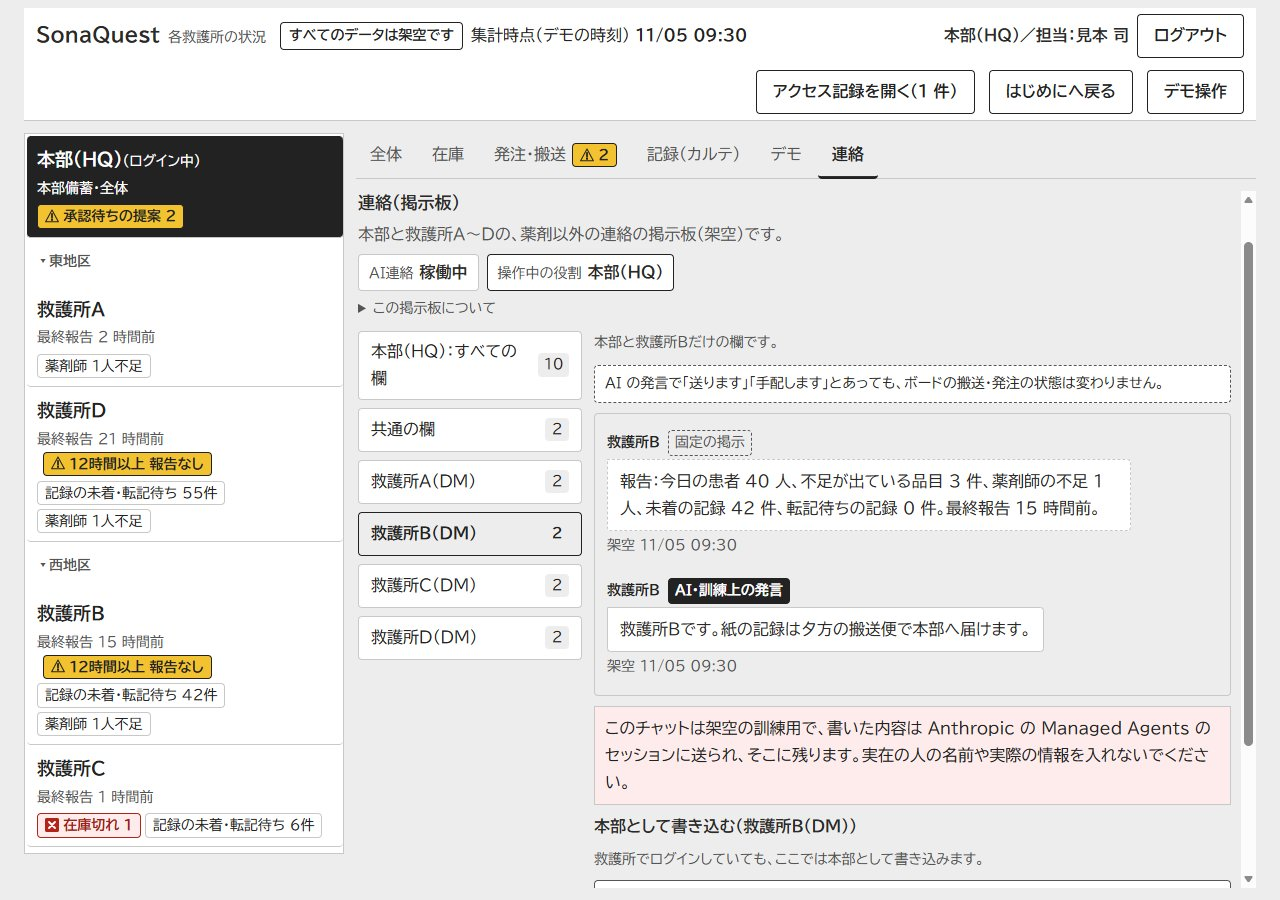
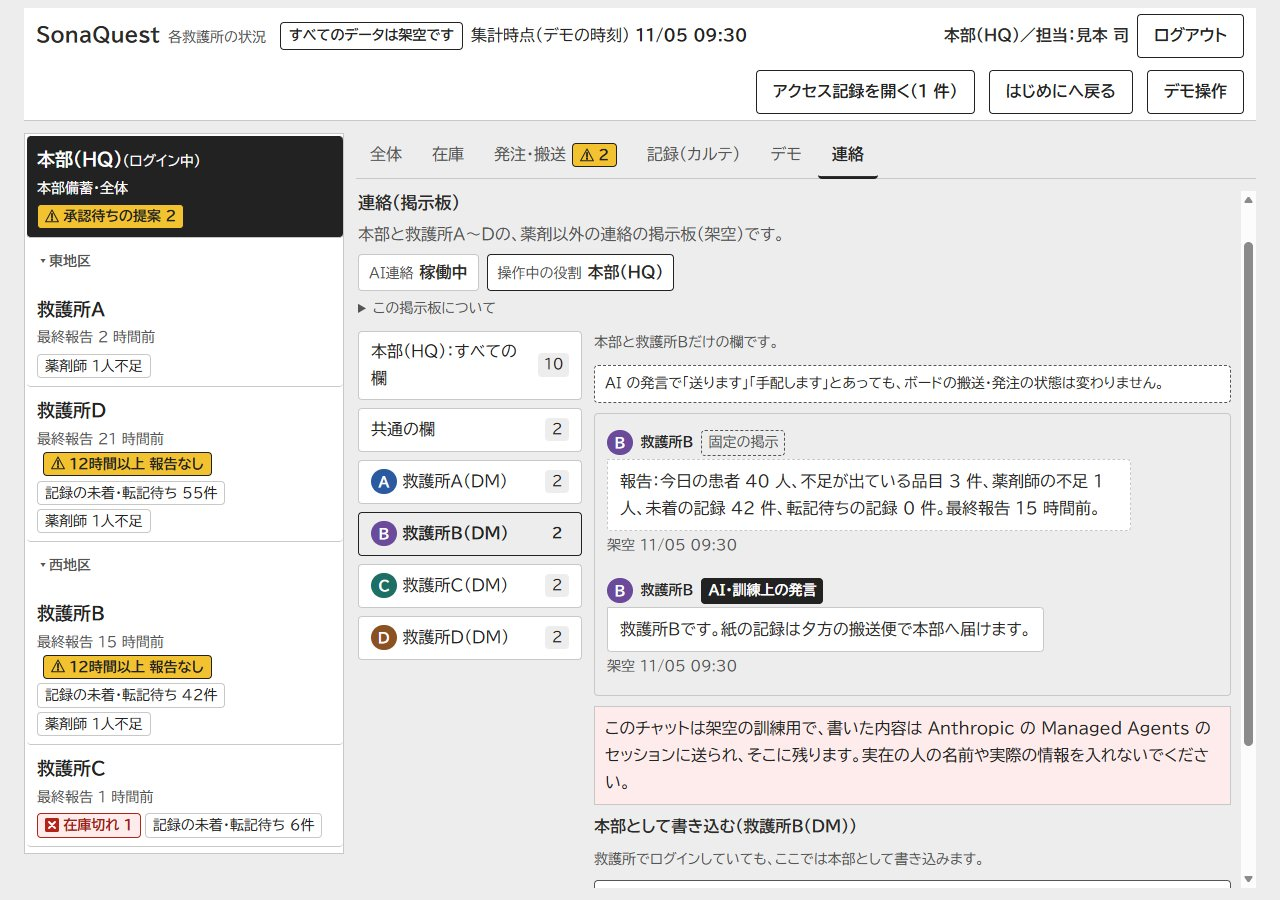
掲示板チャットの書き込みと欄に役の丸い印（A〜D・本）を付け、救護所ごとに色を分ける（Issue #161）

Changed region(s): [[0.2812, 0.4978, 0.4062, 0.7156], [0.4688, 0.6222, 0.6562, 0.6844], [0.4688, 0.4667, 0.625, 0.5289]]

diff --git a/web/src/board/chat/BoardChat.tsx b/web/src/board/chat/BoardChat.tsx
@@ -5,7 +5,7 @@
 
 import { useEffect, useLayoutEffect, useRef, useState, useSyncExternalStore, type FormEvent } from "react";
 import type { DemoState } from "../demo";
-import { MAX_HUMAN_TEXT_LENGTH, type ChatChannel } from "./contract";
+import { MAX_HUMAN_TEXT_LENGTH, type ChatChannel, type ChatRole } from "./contract";
 import {
   AUTO_INTERVAL_MS,
   boardChatController,
@@ -16,7 +16,7 @@ import {
   type ChatViewMemory,
 } from "./controller";
 import { chatStatus } from "./status";
-import { CHAT_BUBBLE_TEXT, CHAT_ROLE_NAMES, CHAT_SEND_NOTICE, CHAT_TEXT, CHAT_VIEWS, type ChatView } from "./text";
+import { CHAT_BUBBLE_TEXT, CHAT_ROLE_MARKS, CHAT_ROLE_NAMES, CHAT_SEND_NOTICE, CHAT_TEXT, CHAT_VIEWS, type ChatView } from "./text";
 import "./chat.css";
 
 interface Props {
@@ -43,6 +43,18 @@ function badgeOf(post: ChatPost): string {
   return post.by === "agent" ? CHAT_BUBBLE_TEXT.aiBadge : CHAT_TEXT.badges[post.by];
 }
 
+/**
+ * 役の丸い印（●の中に A〜D、本部は「本」）。救護所ごとに色を分ける（2026-11-06 オーナー、チャット）。
+ * 色だけに頼らず文字を入れ、名前も横に書くので、読み上げでは印を読まない
+ */
+function RoleMark({ role }: { role: ChatRole }) {
+  return (
+    <span className={`board-chat-mark role-${role}`} aria-hidden="true" data-role={role}>
+      {CHAT_ROLE_MARKS[role]}
+    </span>
+  );
+}
+
 function Post({ post, showChannel }: { post: ChatPost; showChannel: boolean }) {
   // 本部（人・エージェント・固定の掲示）は右、救護所は左
   const side = post.role === "HQ" ? "hq" : "site";
@@ -50,6 +62,7 @@ function Post({ post, showChannel }: { post: ChatPost; showChannel: boolean }) {
   return (
     <li className={`board-chat-post ${post.by} side-${side}${mine ? " mine" : ""}`} data-by={post.by} data-side={side}>
       <div className="board-chat-meta">
+        <RoleMark role={post.role} />
         <span className="board-chat-name">{CHAT_ROLE_NAMES[post.role]}</span>
         <span className={`board-chat-badge ${post.by}`}>{badgeOf(post)}</span>
         {showChannel && <span className="board-chat-channel">{CHAT_TEXT.views[post.channel]}</span>}
@@ -185,7 +198,10 @@ export function BoardChat({ state, controller = boardChatController, memory = bo
               data-view={v}
               onClick={() => setView(v)}
             >
-              <span>{CHAT_TEXT.views[v]}</span>
+              <span className="board-chat-view-name">
+                {v !== "all" && v !== "common" && <RoleMark role={v} />}
+                {CHAT_TEXT.views[v]}
+              </span>
               <span className="board-chat-count">{counts(v)}</span>
             </button>
           ))}

diff --git a/web/src/board/chat/text.ts b/web/src/board/chat/text.ts
@@ -11,6 +11,9 @@ export const CHAT_ROLE_NAMES: Readonly<Record<ChatRole, string>> = {
   D: "救護所D",
 };
 
+/** 吹き出しと欄のボタンに付ける丸い印の文字（Issue #161。2026-11-06 オーナー、チャット：「●の中にAとかにしてもいいかもね。色分けしてさ」） */
+export const CHAT_ROLE_MARKS: Readonly<Record<ChatRole, string>> = { HQ: "本", A: "A", B: "B", C: "C", D: "D" };
+
 /** 左の欄の並び。all は本部が見るすべての欄（読むだけ） */
 export type ChatView = "all" | ChatChannel;
 export const CHAT_VIEWS: readonly ChatView[] = ["all", "common", "A", "B", "C", "D"];
@@ -85,7 +88,7 @@ export const CHAT_BUBBLE_TEXT = {
   operatingRole: "本部（HQ）",
   operatingRoleNote: "救護所でログインしていても、ここでは本部として書き込みます。",
   aiBadge: "AI・訓練上の発言",
-  boardUnchanged: "AI の発言で「送ります」「手配します」とあっても、ボードの搬送・発注の状態は変わりません。",
+  boardUnchanged:"AI の発言で「送ります」「手配します」とあっても、ボードの搬送・発注の状態は変わりません。",
 } as const;
 
 /**

diff --git a/web/src/board/chat/chat.css b/web/src/board/chat/chat.css
@@ -399,3 +399,42 @@
     padding: 10px 12px 10px 8px;
   }
 }
+
+/* 役の丸い印（Issue #161、2026-11-06 オーナー「●の中にAとかにしてもいいかもね。色分けしてさ」）。
+   ボードの色は赤・黄を状態だけに使う（Issue #143）ので、救護所の色は赤・黄から離した青・紫・青緑・茶にし、本部は墨。
+   色だけに頼らず、丸の中の文字と横の名前で区別できる。白い文字との明るさの差は 4.5:1 以上 */
+.board-chat-mark {
+  display: inline-flex;
+  flex: 0 0 auto;
+  align-items: center;
+  justify-content: center;
+  width: 1.6rem;
+  height: 1.6rem;
+  border-radius: 50%;
+  background: var(--ink);
+  color: #ffffff;
+  font-size: var(--fs-caption);
+  font-weight: var(--fw-bold);
+  line-height: 1;
+  align-self: center;
+}
+.board-chat-mark.role-A {
+  background: #2b5aa0;
+}
+.board-chat-mark.role-B {
+  background: #6b4a9b;
+}
+.board-chat-mark.role-C {
+  background: #1d6e64;
+}
+.board-chat-mark.role-D {
+  background: #8a5223;
+}
+.board-chat-meta {
+  align-items: center;
+}
+.board-chat-view-name {
+  display: inline-flex;
+  align-items: center;
+  gap: 6px;
+}

diff --git a/web/src/board/chat/BoardChat.test.tsx b/web/src/board/chat/BoardChat.test.tsx
@@ -56,6 +56,12 @@ describe("連絡（掲示板チャット）の画面", () => {
     expect(html.match(/data-side="site"/g)).toHaveLength(OPENING_JOBS.length - hq);
   });
 
+  it("書き込みごとに役の丸い印（救護所は A〜D、本部は「本」）を付け、救護所の DM の欄のボタンにも付ける", () => {
+    expect(html.match(/class="board-chat-mark role-/g)!.length).toBe(OPENING_JOBS.length + 4);
+    for (const r of ["A", "B", "C", "D"]) expect(html).toContain(`class="board-chat-mark role-${r}" aria-hidden="true" data-role="${r}">${r}<`);
+    expect(html).toContain('class="board-chat-mark role-HQ" aria-hidden="true" data-role="HQ">本<');
+  });
+
   it("エージェントの書き込みには「AI・訓練上の発言」の印を付ける", async () => {
     const controller = new ChatController(async (url) =>
       url.endsWith("/session")

diff --git a/docs/STATUS.md b/docs/STATUS.md
@@ -1,6 +1,6 @@
 # 進捗（STATUS）
 
-最終更新：2026-11-06（Issue #161：ボードの掲示板チャット（B-07）の書き込みを吹き出しにし、本部を右・救護所を左に分けた。エージェントの書き込みに「AI・訓練上の発言」の印を付け、AI の発言でボードの搬送・発注の状態は変わらないことと、「操作中の役割：本部（HQ）」を出す。上の説明は1行と「AI連絡」の札にし、長い説明は開閉の中に入れた（送る前の注意は入力欄のそばに残した）。エージェントに渡す記録の数を、未着と転記待ちの2つの数に分けた（ADR-0047 の追記）。1回分の文に「1件1用件・要点を先に」と未着・転記待ちの区別の頼みを足した（下書き・マーカー）。別のタブから戻ったときに、選んでいた欄とスクロールの位置をメモリだけで戻す。単体試験 917件とビルドが通る。開発用サーバーで幅1280px と 375px の画面を確かめた（エージェントの返事は架空の固定文に差し替えた）。本物の Managed Agents での確認はしていない）
+最終更新：2026-11-06（Issue #161：ボードの掲示板チャット（B-07）の書き込みを吹き出しにし、本部を右・救護所を左に分けた。書き込みと救護所の DM の欄に役の丸い印（●の中に A〜D、本部は「本」）を付け、救護所ごとに色を分けた（オーナーの求め。赤・黄は状態の色なので使わない）。エージェントの書き込みに「AI・訓練上の発言」の印を付け、AI の発言でボードの搬送・発注の状態は変わらないことと、「操作中の役割：本部（HQ）」を出す。上の説明は1行と「AI連絡」の札にし、長い説明は開閉の中に入れた（送る前の注意は入力欄のそばに残した）。エージェントに渡す記録の数を、未着と転記待ちの2つの数に分けた（ADR-0047 の追記）。1回分の文に「1件1用件・要点を先に」と未着・転記待ちの区別の頼みを足した（下書き・マーカー）。別のタブから戻ったときに、選んでいた欄とスクロールの位置をメモリだけで戻す。単体試験 918件とビルドが通る。開発用サーバーで幅1280px と 375px の画面を確かめた（エージェントの返事は架空の固定文に差し替えた）。本物の Managed Agents での確認はしていない）
 最終更新：2026-11-06（Issue #183：訓練の画面をデザイン案B に直した（ADR-0060）。押して進むボタンは深い緑（`--go`）だけ、オレンジは注意だけ、「訓練をやめる」は墨色の枠。はじめにの上は問いかけと題を淡いミントの帯に置き（案A）、答え方の2枚のカードは横に並べた。対話は今の問いを大きく太くし、「答える」を欄の下に幅いっぱいで置いた。答え方の呼び方を「文字で答える」「自分の声で答える」にし、声の送信先の説明（`PRIVACY_VOICE`）も同じ呼び方にした（オーナー決定。マーカーは残し、決定の行を足した）。HQ のボードは変えていない。単体試験 906件とビルドが通る。開発用サーバーで、幅375px と 1280px のはじめに・対話・③確認・出来事と、振り返りの見本を画面で確かめた。後半・終わり・中断の画面と、3D のモードは画面で確かめていない）
 最終更新：2026-11-06（Issue #175：ボードの「拠点と経路の図」（Issue #167 の内容）の約30秒の紹介動画を、Remotion のパッケージ `video/` に別の Composition `BoardMapVideo` として足した（`video/src/boardMap/`。7場面・900フレーム、白地に黒の線、字幕は日本語と英語、切り替えは0.4秒、音は無し）。町・経路・車の位置・数量の文は `web/src/board/` から読む。「以前の動き」は以前の CSS の動きを今のデータで再現したもので、録画ではない。Studio で再生できることと typecheck が通ることを確かめた。書き出し（render）はしていない。依存は足していない）
 最終更新：2026-11-06（Issue #179：README の「Yorukusuとの関係」のオーナー判断のマーカーを解除した。根拠は PR #178 で main に入った決定の行「→ オーナー決定（2026-11-06、チャット）：1〜2文に縮める。」で、決定の行は残した（ADR-0024）。ADR-0002 のマーカーは残っている）

diff --git a/docs/decisions.md b/docs/decisions.md
@@ -1218,7 +1218,7 @@
   1. **送るものの形**：上の決定5の「記録の形になっていない数」を、**未着**（紙の記録が本部にまだ届いていない数）と**転記待ち**（本部に届いたが、まだ記録の形にしていない数）の2つの数に分けた（`ChatSiteStatus` の `notArrivedRecords`・`awaitingEntryRecords`。もとの `pendingRecords` は余分な鍵として受け取らない）。ボードの同期の行の内訳の種類（`pendingKind`）で振り分ける（`web/src/board/chat/status.ts` の `pendingSplit`）。理由：1つの数のままだと、転記待ちの救護所について「次の便で本部へ渡します」のような食い違いが出る。送るのはこれまでどおり件数と時刻だけで、数が1つ増えただけ。
   2. **1回分の文に足す頼み**（`web/worker/boardChat.ts` の `TURN_STYLE_LINES`、マーカー付き）：「1つの書き込みに1つの用件、要点を先に」と、未着と転記待ちの意味の区別。Agent の system prompt は setup で作り直さないと変わらないので、毎回の文の終わりに足した。検査（`boardChatChecks.ts`）は変えず、外していない。
   3. **AI の発言とボードの状態の境目**：エージェントの書き込みに「AI・訓練上の発言」の印を付け、会話の上に「AI の発言で『送ります』『手配します』とあっても、ボードの搬送・発注の状態は変わりません」と出す。エージェントの文はボードの状態を動かさない（これまでどおり。画面の表示で明示しただけ）。
-  4. **画面**：書き込みを吹き出しにし、本部を右、救護所を左に分ける（角は Issue #143 の 4px まで）。上の説明を1行にし、「AI連絡：稼働中」などの札と「操作中の役割：本部（HQ）」の札にした。もとの長い説明は「この掲示板について」（開閉）に入れ、送る先と送るものの説明と送る前の注意は、始めるボタンと入力欄のそばに残した。入力欄のそばに「救護所でログインしていても、ここでは本部として書き込みます」と出す。別のタブ（在庫など）へ移って戻ったときに、選んでいた欄と欄ごとのスクロールの位置を戻す（モジュールのメモリだけ。保存しない）。
+  4. **画面**：書き込みを吹き出しにし、本部を右、救護所を左に分ける（角は Issue #143 の 4px まで）。書き込みと救護所の DM の欄のボタンに、役の丸い印（●の中に A〜D、本部は「本」）を付け、救護所ごとに色を分けた（2026-11-06 オーナー、チャット：「救護所AとかBとか本部からは判別つかないから、●の中にAとかにしてもいいかもね。色分けしてさ。」）。Issue #143 は赤・黄を状態だけに使い、ほかを無彩色にする決まりなので、救護所の色は赤・黄から離した青・紫・青緑・茶にし、本部は墨にした。色だけに頼らず、丸の中の文字と横の名前で区別できる（印は読み上げない）。左の太い色線は #143 に合わせて使わない。上の説明を1行にし、「AI連絡：稼働中」などの札と「操作中の役割：本部（HQ）」の札にした。もとの長い説明は「この掲示板について」（開閉）に入れ、送る先と送るものの説明と送る前の注意は、始めるボタンと入力欄のそばに残した。入力欄のそばに「救護所でログインしていても、ここでは本部として書き込みます」と出す。別のタブ（在庫など）へ移って戻ったときに、選んでいた欄と欄ごとのスクロールの位置を戻す（モジュールのメモリだけ。保存しない）。
   - 却下案：Agent の system prompt に頼みを足す（setup の作り直しが要り、今の Agent の ID が変わる）。数を1つのまま、文で「未着または転記待ち」と書く（どちらか分からず、食い違いが残る）。AI の印を書き込みごとの長い注記にする（1件ごとに同じ文がくり返され、読みにくい）。
   - 確かめていないこと：本物の Managed Agents で、頼みと2つの数によって食い違いが減るか（画面の確認は、エージェントの返事を架空の固定文に差し替えて行った）。
 

diff --git a/docs/KEEP-THINKING.md b/docs/KEEP-THINKING.md
@@ -774,4 +774,5 @@
 - つまずいたこと：Claude desktop のブラウザ画面は幅800pxほどで切り取られ、1280px の画面全体を撮れなかった。headless の Edge を CDP で動かす使い捨てのスクリプト（作業用の一時フォルダ、リポジトリには入れない）で撮った。エージェントは動かしていないので、返事は画面の fetch を架空の固定文に差し替えた。STATUS・PR には差し替えたことを書いた。
 - つまずいたこと：吹き出しの角を最初 12px にしたが、Issue #143 の「角丸は 4px まで」に反していた。尖らせる角だけ 0 にし、ほかを 4px にした。
 - 捨てた案：Agent の system prompt に頼みを足す（setup を作り直すと Agent の ID が変わる）。
+- PR を出した後、オーナーが「本部から救護所の区別がつかない、●の中に A とかにして色分けしては」と求めた。丸い印を足し、色は #143 の決まり（赤・黄は状態だけ）とぶつからない青・紫・青緑・茶にした。吹き出しの左に色の線を引く案も考えたが、#143 が左の太い線をやめていたので入れなかった。
 - 次にやること：本物の Managed Agents で、未着と転記待ちの食い違いが減るかを見る（Issue #139 と同じ手順）。#159 第2段・#160・#118 は同じ Board.tsx・board.css を触るので、この PR のマージ後に順に。
